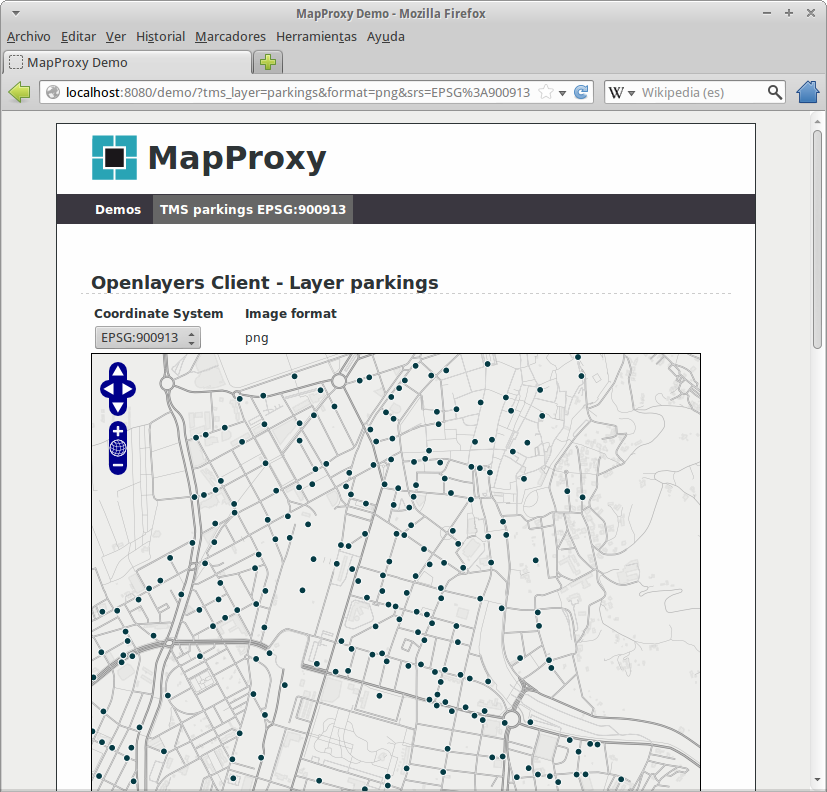
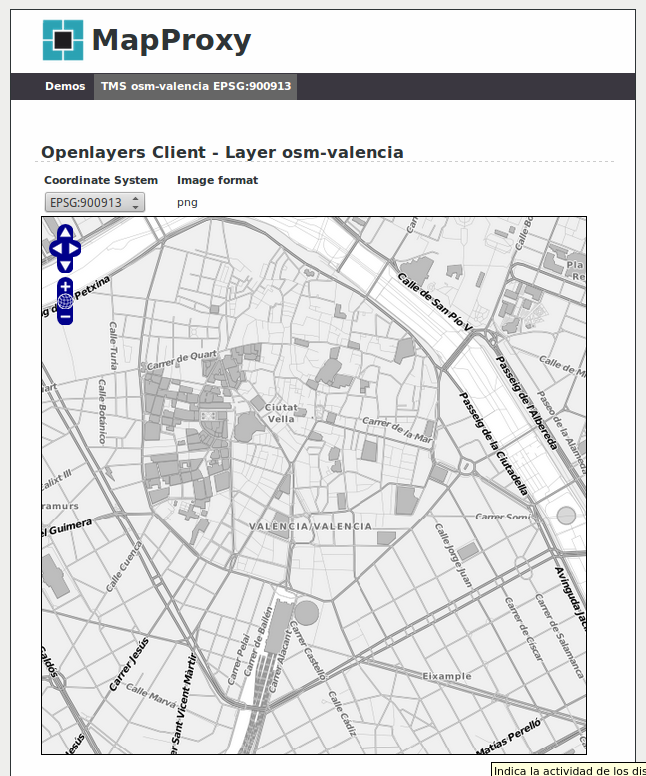
ejercicio de mbtiles actualizado

diff --git a/doc/source/ejercicios/mbtiles.rst b/doc/source/ejercicios/mbtiles.rst
@@ -16,7 +16,7 @@ teclas :kbd:`Control+A` y después la tecla :kbd:`Supr`.
    configuración trabajada en el :ref:`ejer01`.
 
 .. note:: Puedes copiar el archivo :file:`mapproxy.yaml` del :ref:`ejer01` o
-   descargarlo de `aquí <https://raw.github.com/geoinquietosvlc/mapproxy-workshop/feature/sig_libre_viii/exercises/wms/mapproxy.yaml>`_.
+   descargarlo de `aquí <https://raw.github.com/geoinquietosvlc/mapproxy-workshop/feature/cfp_2014/exercises/wms/mapproxy.yaml>`_.
 
 El objetivo de este ejercicio es montar una capa en MapProxy que sirva una
 *cache* en formato MBTiles_ generada en TileMill_. Es decir, realizamos todo
@@ -42,17 +42,16 @@ tratarse de un dato vectorial.
 .. _SQLite: https://sqlite.org/
 
 El fichero *MBTiles* proporcionado consiste en una capa de la zona de trabajo
-del taller en la que se muestran carreteras y edificios en tonos de gris y una
-serie de puntos con la ubicación de zonas de aparcamiento. El archivo se puede
-descargar de `aquí <https://docs.google.com/file/d/0B28vBRfHgG9pZ3l3MXlQc09jSjQ/edit?pli=1>`_.
+del taller en la que se muestran calles y edificios en tonos de gris. El archivo se puede
+descargar de `aquí <https://drive.google.com/file/d/0B28vBRfHgG9pcTRJQUl5QlBVcFU/edit?usp=sharing>`_.
 
 El *grid* que define el fichero *MBTiles* es igual que el usado por Google Maps
-solo que se han exportado las teselas hasta el nivel 16, es decir::
+solo que se han exportado las teselas hasta el nivel 15, es decir::
 
   grids:
-    parkings:
+    valencia:
       base: GLOBAL_MERCATOR
-      num_levels: 17
+      num_levels: 16
 
 Parte única
 -------------
@@ -75,13 +74,12 @@ Te recordamos que para lanzar un servidor debes usar la orden::
     $ mapproxy-util serve-develop mapproxy.yaml
 
 En la siguiente figura se muestran las dos capas accedidas por separado desde un
-cliente GIS de escritorio (QGis) en el que se ha establecido una transparencia
-del 50% a la capa de ortofoto de tal forma que las zonas de aparcamiento se
-visualizan de forma más efectiva.
+cliente GIS de escritorio (QGIS) en el que se ha establecido una transparencia
+del 35% a la capa de las calles.
 
 .. figure:: ../_static/exercise-mbtiles2.png
 	 :width: 50%
-	 :alt:  Acceso a las dos capas desde QGis
+	 :alt:  Acceso a las dos capas desde QGIS
 	 :align: center
 
 	 Acceso a las dos capas mediante WMS
